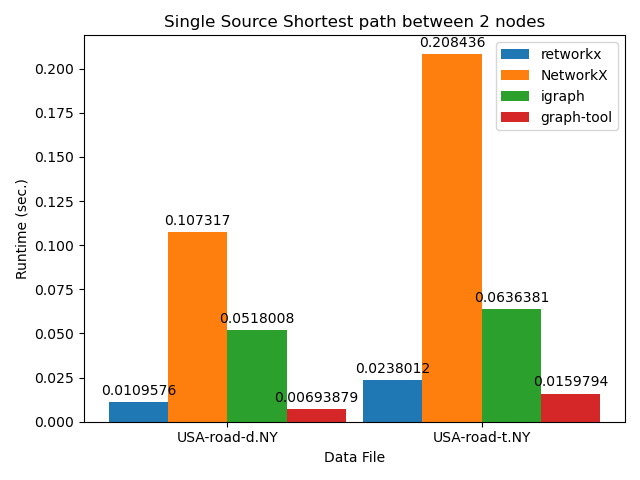
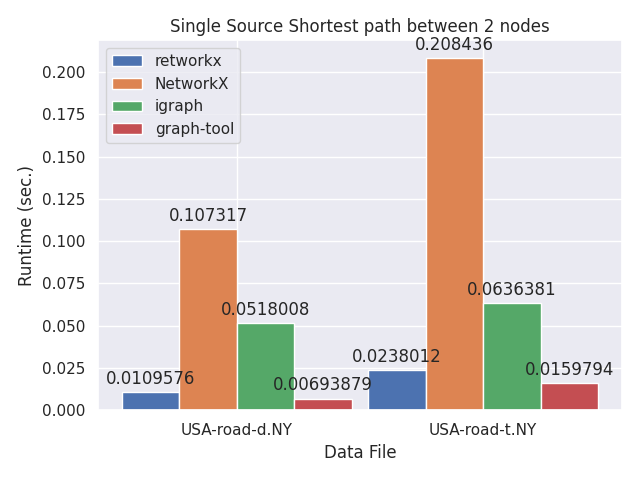
Add seaborn theme

diff --git a/graph_results.py b/graph_results.py
@@ -4,7 +4,9 @@ import csv
 import statistics
 
 import matplotlib.pyplot as plt
+import seaborn as sns
 import numpy as np
+
 
 
 def creation_time_graph():
@@ -51,6 +53,7 @@ def creation_time_graph():
                     )
     x = np.arange(len(single_source_shortest_files))
     width = 0.175
+    sns.set_theme()
     fig, ax = plt.subplots()
     retworkx_rects = ax.bar(x - 3 * width / 2, retworkx_times, width, label="retworkx")
     networkx_rects = ax.bar(x - width / 2, networkx_times, width, label="NetworkX")
@@ -118,6 +121,7 @@ def single_source_graph():
                     )
     x = np.arange(len(single_source_shortest_files))
     width = 0.175
+    sns.set_theme()
     fig, ax = plt.subplots()
     retworkx_rects = ax.bar(x - 3 * width / 2, retworkx_times, width, label="retworkx")
     networkx_rects = ax.bar(x - width / 2, networkx_times, width, label="NetworkX")
@@ -179,6 +183,7 @@ def single_source_graph_NY():
                     )
     x = np.arange(len(single_source_shortest_files))
     width = 0.2333
+    sns.set_theme()
     fig, ax = plt.subplots()
     retworkx_rects = ax.bar(x - 3 * width / 2, retworkx_times, width, label="retworkx")
     networkx_rects = ax.bar(x - width / 2, networkx_times, width, label="NetworkX")
@@ -238,6 +243,7 @@ def all_pair_graph():
                     )
     x = np.arange(len(all_pair_files))
     width = 0.2333
+    sns.set_theme()
     fig, ax = plt.subplots()
     retworkx_rects = ax.bar(x - 3 * width / 2, retworkx_times, width, label="retworkx")
     networkx_rects = ax.bar(x - width / 2, networkx_times, width, label="NetworkX")
